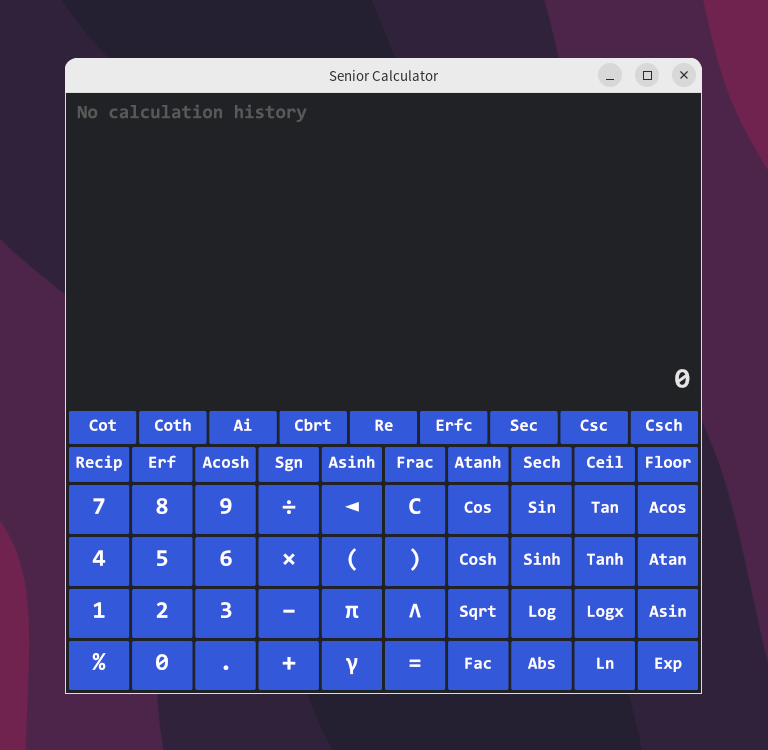
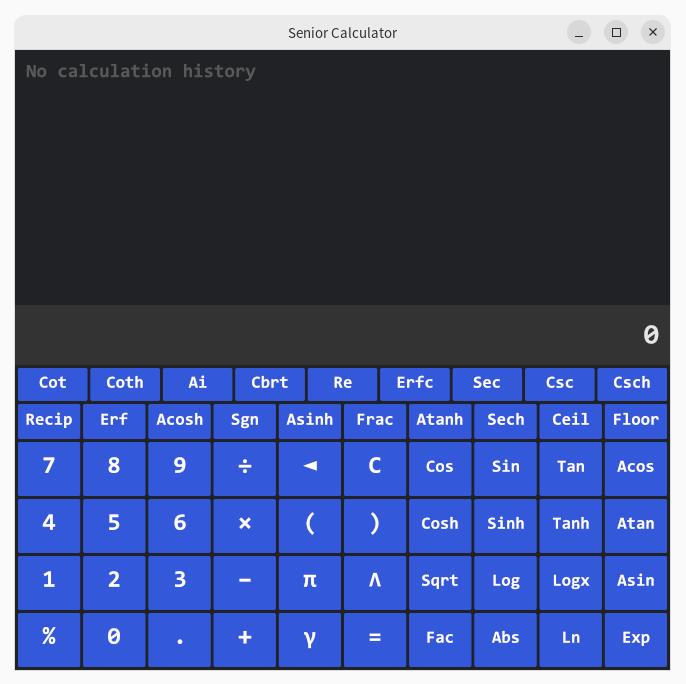
Update src/main.rs

diff --git a/src/main.rs b/src/main.rs
@@ -14,14 +14,17 @@ use iced::{
     Application, Command,
     Element, Settings,
     Alignment, Theme,
-    Length, Font, Color
+    Length, Font, Color,
+    Background,
+    theme::Container
 };
 
 use iced::widget::{
     column, row,
     scrollable,
     button, text,
-    vertical_space
+    vertical_space,
+    container
 };
 
 use iced::widget::scrollable::{
@@ -279,20 +282,31 @@ impl Application for Calculator {
             ].into()
         };
 
+        // 自定义背景颜色
+        let custom = |_: &Theme| -> container::Appearance {
+            let color = Color::from([0.2, 0.2, 0.2]);
+            container::Appearance {
+                background: Some(Background::Color(color)),
+                ..container::Appearance::default()
+            }
+        } as for<'a> fn(&'a Theme) -> container::Appearance;
+
         // 显示输入输出结果
-        let result_main = Element::from(
+        let result_main = container(
             column![
+                vertical_space(8),
                 text(self.show.clone())
                     .size(28)
-                    .height(50)
+                    .height(52)
                     .font(CONSOLA)
                     .horizontal_alignment(Horizontal::Right)
                     .vertical_alignment(Vertical::Center)
             ].width(Length::Fill)
-             .height(50)
+             .height(60)
              .align_items(Alignment::End)
              .padding(11)
-        );
+        ).width(Length::Fill)
+         .style(Container::from(custom));
 
         // 结果显示板块
         let display = Element::from(
@@ -310,7 +324,6 @@ impl Application for Calculator {
                          .scroller_width(2)
                          .margin(0)
                  ).id(SCROLL.clone()),
-                vertical_space(10),
                 result_main
             ].width(Length::Fill)
         );
